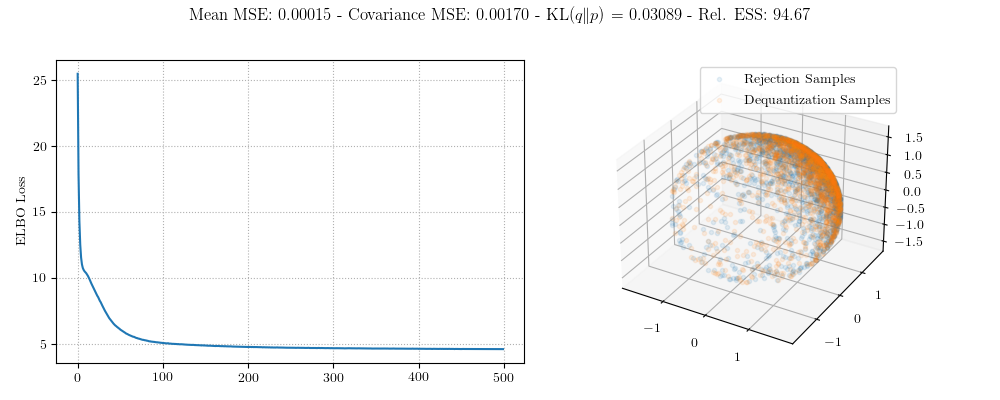
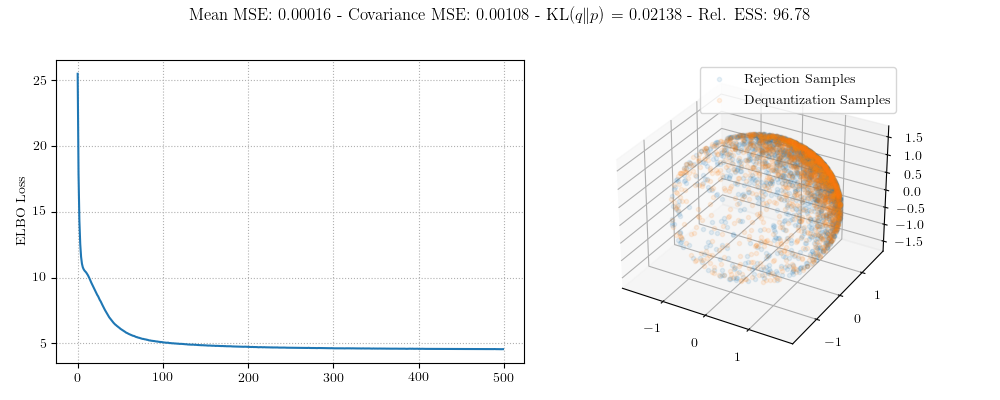
improve multimodal

diff --git a/examples/density-estimation/ambient-orthogonal/dequantization.py b/examples/density-estimation/ambient-orthogonal/dequantization.py
@@ -64,16 +64,30 @@ def dequantize(rng: random.PRNGKey, deq_params: Sequence[jnp.ndarray], deq_fn: C
     of a matrix in O(n) and a Cholesky factor. This code places a distribution
     over the cholesky factor.
 
+    Args:
+        rng: Pseudo-random number generator seed.
+        deq_params: Parameters of the mean and scale functions used in
+            the log-normal dequantizer.
+        deq_fn: Function that computes the mean and scale of the dequantization
+            distribution.
+        xon: Observations on O(n).
+        num_samples: Number of deqauntization samples to generate.
+
+    Returns:
+        xdeq: Dequantized samples.
+        lp: The log-density of the dequantization density with a Jacobian
+            correction for the ambient space.
+
     """
     # Compute the dequantization into the ambient space.
     deq = deq_fn(deq_params, xon)
     (dmu, odmu), (dsigma, odsigma) = deq[:2], deq[2:]
-    mulim = 2.5
-    sigmamax = 3.
-    dmu = jnp.clip(dmu, -mulim, mulim)
-    odmu = jnp.clip(odmu, -mulim, mulim)
-    dsigma = jnp.clip(dsigma, 0.1, sigmamax)
-    odsigma = jnp.clip(odsigma, 0.1, sigmamax)
+    # mulim = 2.5
+    # sigmamax = 3.
+    # dmu = jnp.clip(dmu, -mulim, mulim)
+    # odmu = jnp.clip(odmu, -mulim, mulim)
+    # dsigma = jnp.clip(dsigma, 0.1, sigmamax)
+    # odsigma = jnp.clip(odsigma, 0.1, sigmamax)
     div = 10.
     dmu, odmu, dsigma, odsigma = dmu / div, odmu / div, dsigma / div, odsigma / div
     rng, rng_d, rng_od = random.split(rng, 3)
